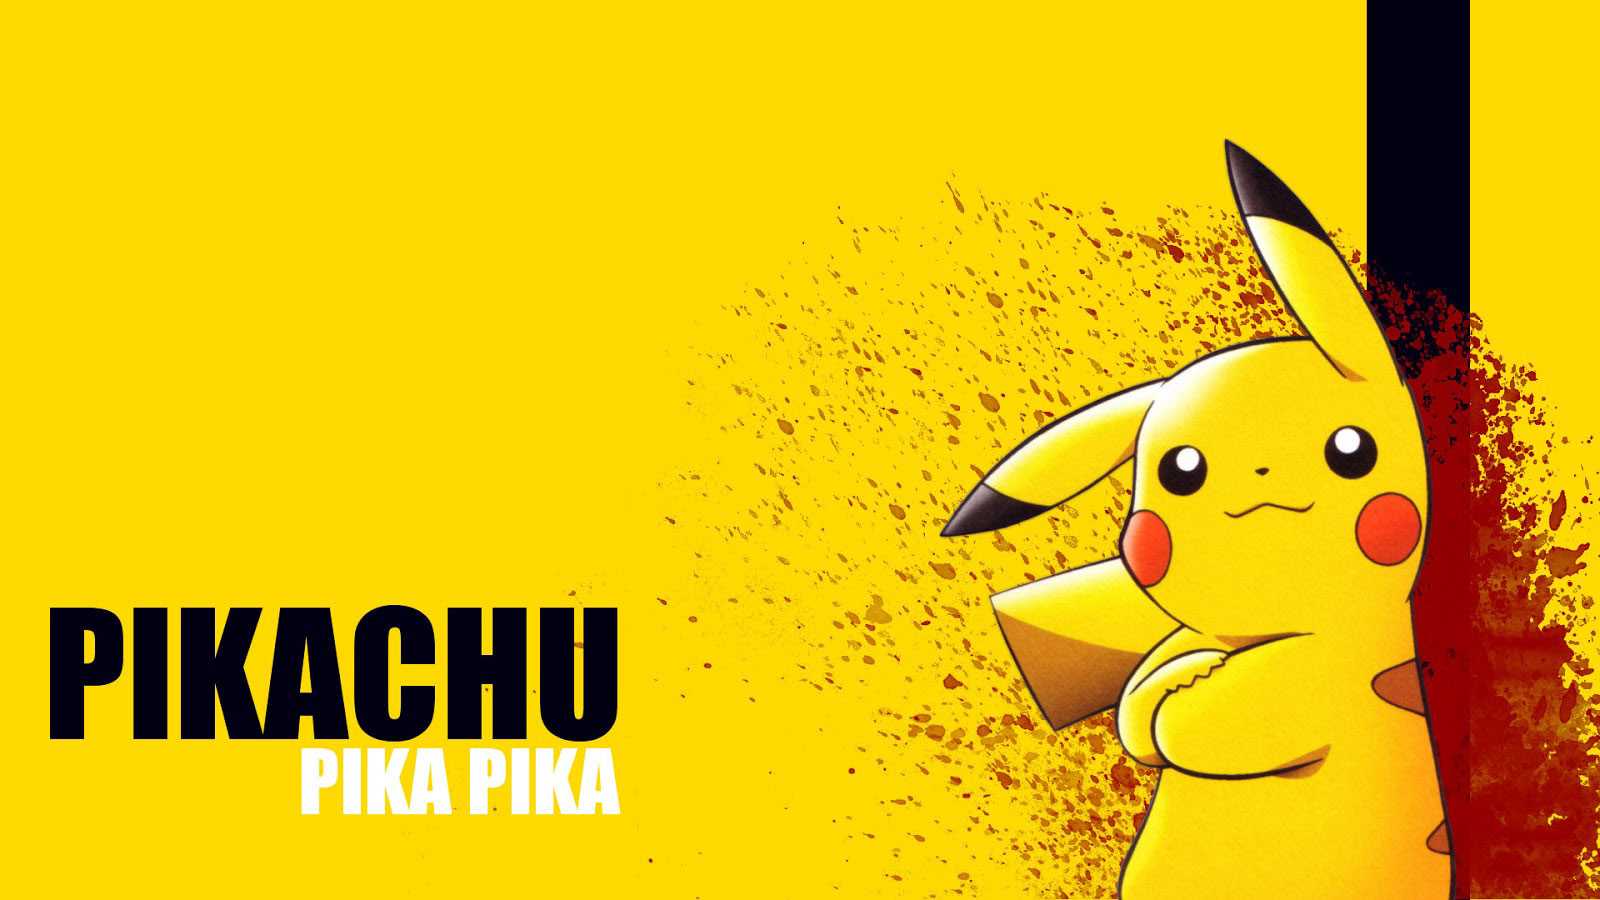
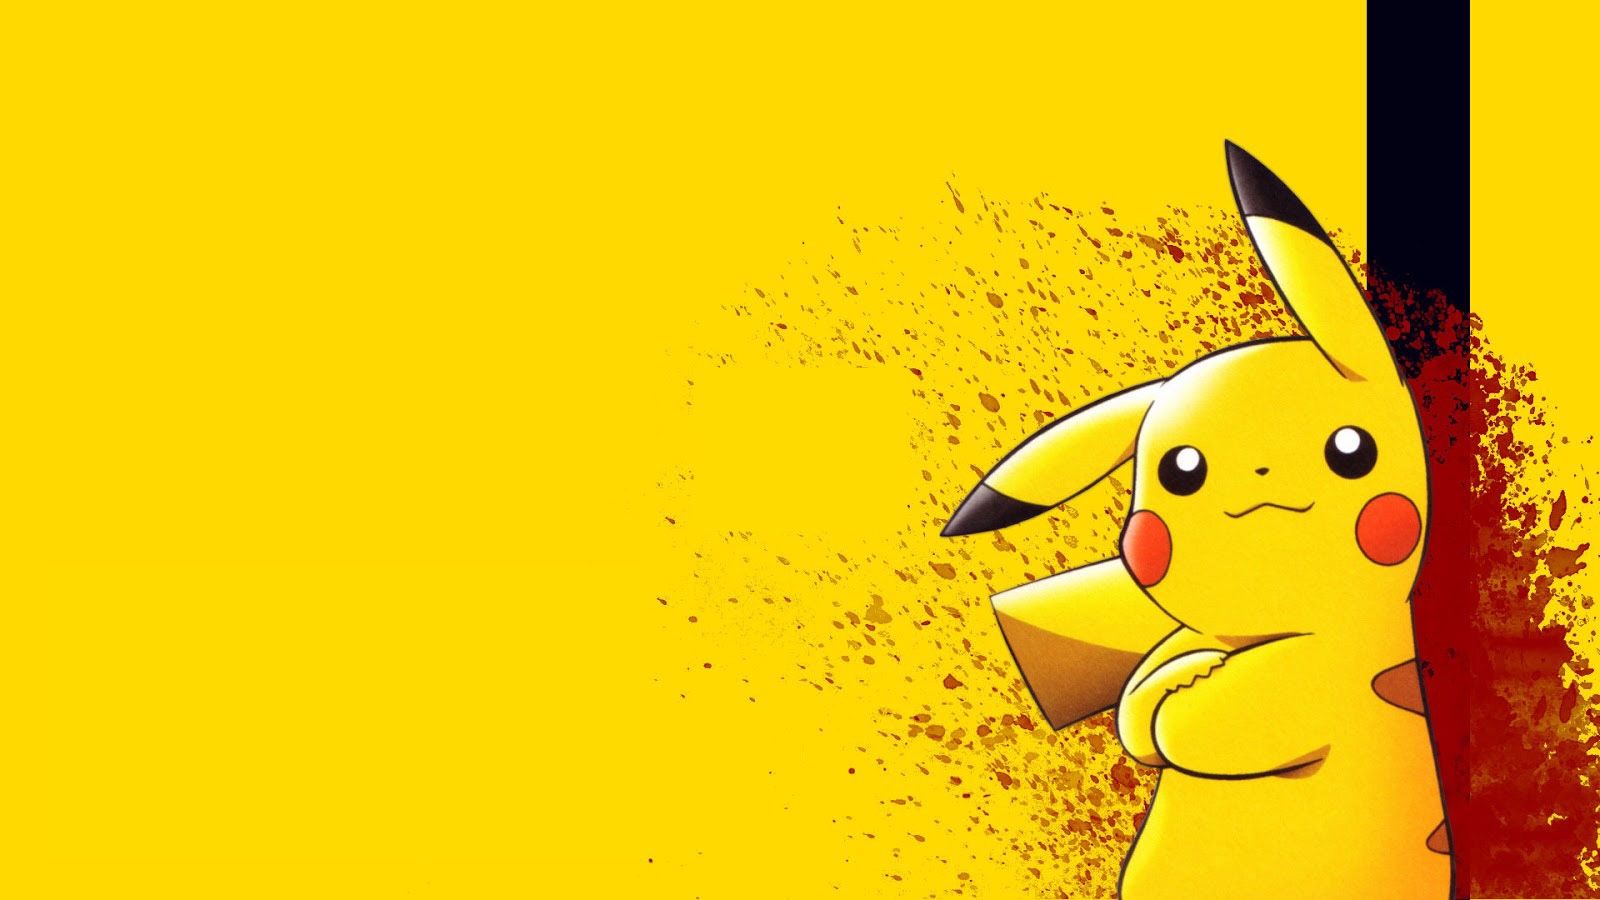
feat: add background

diff --git a/src/app/components/ui/card/BackCard.tsx b/src/app/components/ui/card/BackCard.tsx
@@ -7,6 +7,7 @@ interface BackCardProps {
   getTypeColor: (type: string) => string;
   handleCardFlip: (id: number) => void;
   id: number;
+  allowInternalScroll?: boolean;
 }
 
 export const BackCard = ({
@@ -15,11 +16,16 @@ export const BackCard = ({
   getTypeColor,
   handleCardFlip,
   id,
+  allowInternalScroll = false,
 }: BackCardProps) => {
   return (
     <div className="p-4 h-full flex flex-col">
       <h3 className="text-xl font-bold mb-4 text-center">Moves</h3>
-      <div className="flex-1 overflow-y-auto">
+      <div
+        className={`flex-1 ${
+          allowInternalScroll ? "overflow-y-auto" : "overflow-hidden"
+        }`}
+      >
         <div className="grid grid-cols-2 gap-2">
           {moves?.map((move: PokemonMove, index: number) => (
             <div

diff --git a/src/app/components/background/Background.tsx b/src/app/components/background/Background.tsx
@@ -1,0 +1,21 @@
+import Image from "next/image";
+
+export const Background = () => {
+  return (
+    <div className="absolute inset-0 bg-black">
+      <Image
+        src="/images/bg_desktop.jpg"
+        alt="background"
+        fill
+        className="hidden lg:block object-cover"
+      />
+      <Image
+        src="/images/bg_mobile.jpg"
+        alt="background"
+        fill
+        className="lg:hidden object-cover"
+      />
+      <div className="absolute inset-0 bg-gradient-to-b from-transparent via-[#f9da49]/20 to-[#f9da49]"></div>
+    </div>
+  );
+};

diff --git a/src/app/page.tsx b/src/app/page.tsx
@@ -1,13 +1,14 @@
 import { Header } from "./components/header/Header";
 import { PokemonCard } from "./components/PokemonCard";
 import AnimationProvider from "./providers/AnimationProvider";
-
 import { SearchBar } from "./components/ui/searchBar/SearchBar";
+import { Background } from "./components/background/Background";
 
 export default function Home() {
   return (
     <div>
       <AnimationProvider>
+        <Background />
         <Header />
         <SearchBar />
         <PokemonCard />

diff --git a/src/app/components/ui/button/LoadMore.tsx b/src/app/components/ui/button/LoadMore.tsx
@@ -12,7 +12,11 @@ export const LoadMore = ({ onLoadMore, loading }: LoadMoreProps) => {
       data-animate-delay="1.5"
       className="flex justify-center my-8 opacity-0"
     >
-      <Button onClick={onLoadMore} disabled={loading} className="!w-[125px]">
+      <Button
+        onClick={onLoadMore}
+        disabled={loading}
+        className="!w-[125px] border-2 border-black"
+      >
         {loading ? "Loading..." : "Load More"}
       </Button>
     </div>

diff --git a/src/app/components/header/Header.tsx b/src/app/components/header/Header.tsx
@@ -5,7 +5,7 @@ export const Header = () => {
     <header
       data-animate
       data-animate-delay="1"
-      className="flex flex-col items-center h-full justify-center translate-y-[200px] mt-10 lg:mt-16"
+      className="flex flex-col items-center h-full justify-center translate-y-[150px] lg:translate-y-[200px] mt-10 lg:mt-16"
     >
       <Image
         src="/images/logo.svg"

diff --git a/src/app/components/PokemonCard.tsx b/src/app/components/PokemonCard.tsx
@@ -223,6 +223,7 @@ export const PokemonCard = () => {
                       getTypeColor={getTypeColor}
                       handleCardFlip={handleCardFlip}
                       id={id}
+                      allowInternalScroll={isFlipped}
                     />
                   </div>
                 </div>

diff --git a/src/app/globals.css b/src/app/globals.css
@@ -3,14 +3,14 @@
 @tailwind utilities;
 
 :root {
-  --background: #ffffff;
+  --background: #f9da49;
   --foreground: #171717;
 }
 
 @media (prefers-color-scheme: dark) {
   :root {
-    --background: #ededed;
-    --foreground: #0a0a0a;
+    --background: #f9da49;
+    --foreground: #171717;
   }
 }
 
